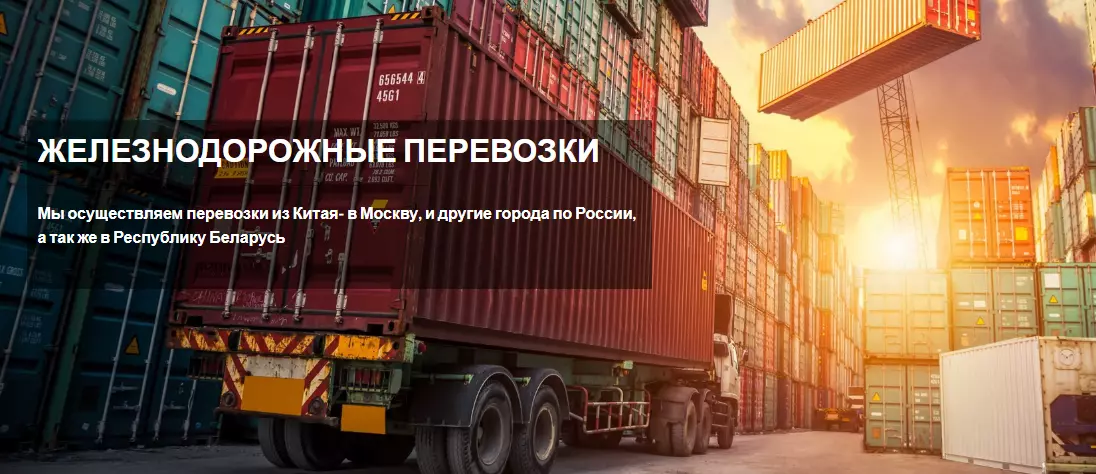
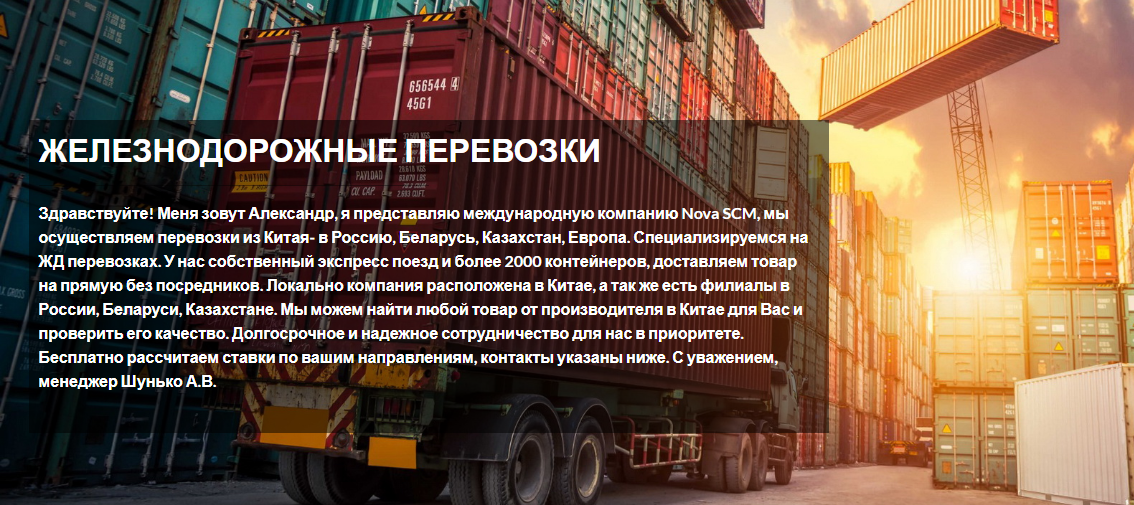
Add new text

diff --git a/beefree-wckbl14ncwp.html b/beefree-wckbl14ncwp.html
@@ -247,30 +247,7 @@ On click the images will be displayed at normal size to complete the effect
 </td>
 </tr>
 </table>
-<table border="0" cellpadding="0" cellspacing="0" class="heading_block block-3" role="presentation" style="mso-table-lspace: 0pt; mso-table-rspace: 0pt;" width="100%">
-<tr>
-<td class="pad" style="padding-bottom:10px;padding-left:30px;padding-right:30px;padding-top:30px;text-align:center;width:100%;">
-<h1 style="margin: 0; color: #ff6464; direction: ltr; font-family: 'Cabin', Arial, 'Helvetica Neue', Helvetica, sans-serif; font-size: 30px; font-weight: normal; letter-spacing: normal; line-height: 120%; text-align: center; margin-top: 0; margin-bottom: 0;">Расчитать ставку!</h1>
-</td>
-</tr>
-</table>
-<table border="0" cellpadding="0" cellspacing="0" class="heading_block block-4" role="presentation" style="mso-table-lspace: 0pt; mso-table-rspace: 0pt;" width="100%">
-<tr>
-<td class="pad" style="padding-bottom:20px;padding-left:30px;padding-right:30px;padding-top:20px;text-align:center;width:100%;">
-<h2 style="margin: 0; color: #000000; direction: ltr; font-family: 'Cabin', Arial, 'Helvetica Neue', Helvetica, sans-serif; font-size: 24px; font-weight: normal; letter-spacing: normal; line-height: 150%; text-align: center; margin-top: 0; margin-bottom: 0;">ENJOY 20% OFF!</h2>
-</td>
-</tr>
-</table>
-<table border="0" cellpadding="0" cellspacing="0" class="button_block block-5" role="presentation" style="mso-table-lspace: 0pt; mso-table-rspace: 0pt;" width="100%">
-<tr>
-<td class="pad" style="padding-bottom:20px;padding-top:20px;text-align:center;">
-<div align="center" class="alignment">
-<!--[if mso]><v:roundrect xmlns:v="urn:schemas-microsoft-com:vml" xmlns:w="urn:schemas-microsoft-com:office:word" href="https://www.example.com" style="height:46px;width:216px;v-text-anchor:middle;" arcsize="0%" strokeweight="1.5pt" strokecolor="#FF6464" fill="false"><w:anchorlock/><v:textbox inset="0px,0px,0px,0px"><center style="color:#ff6464; font-family:Arial, sans-serif; font-size:16px"><![endif]--><a href="https://www.example.com" style="text-decoration:none;display:inline-block;color:#ff6464;background-color:transparent;border-radius:0px;width:auto;border-top:2px solid #FF6464;font-weight:undefined;border-right:2px solid #FF6464;border-bottom:2px solid #FF6464;border-left:2px solid #FF6464;padding-top:5px;padding-bottom:5px;font-family:Cabin, Arial, Helvetica Neue, Helvetica, sans-serif;font-size:16px;text-align:center;mso-border-alt:none;word-break:keep-all;" target="_blank"><span style="padding-left:60px;padding-right:60px;font-size:16px;display:inline-block;letter-spacing:normal;"><span style="word-break: break-word; line-height: 32px;">SHOP NOW</span></span></a>
-<!--[if mso]></center></v:textbox></v:roundrect><![endif]-->
-</div>
-</td>
-</tr>
-</table>
+
 </td>
 </tr>
 </tbody>
@@ -316,7 +293,8 @@ On click the images will be displayed at normal size to complete the effect
 <tr>
 <td class="pad" style="padding-bottom:20px;padding-top:20px;text-align:center;">
 <div align="center" class="alignment">
-<!--[if mso]><v:roundrect xmlns:v="urn:schemas-microsoft-com:vml" xmlns:w="urn:schemas-microsoft-com:office:word" href="https://www.example.com" style="height:62px;width:193px;v-text-anchor:middle;" arcsize="0%" strokeweight="0.75pt" strokecolor="transparent" fill="false"><w:anchorlock/><v:textbox inset="0px,0px,0px,0px"><center style="color:#ffffff; font-family:Arial, sans-serif; font-size:20px"><![endif]--><a href="https://www.example.com" style="text-decoration:none;display:inline-block;color:#ffffff;background-color:transparent;border-radius:0px;width:auto;border-top:1px solid transparent;font-weight:undefined;border-right:1px solid transparent;border-bottom:1px solid transparent;border-left:1px solid transparent;padding-top:10px;padding-bottom:10px;font-family:Cabin, Arial, Helvetica Neue, Helvetica, sans-serif;font-size:20px;text-align:center;mso-border-alt:none;word-break:keep-all;" target="_blank"><span style="padding-left:10px;padding-right:10px;font-size:20px;display:inline-block;letter-spacing:2px;"><span style="word-break: break-word;"><span data-mce-style="" style="line-height: 40px;">SHOP NOW  >></span></span></span></a>
+<!--[if mso]><v:roundrect xmlns:v="urn:schemas-microsoft-com:vml" xmlns:w="urn:schemas-microsoft-com:office:word" href="https://www.example.com" style="height:62px;width:193px;v-text-anchor:middle;" arcsize="0%" strokeweight="0.75pt" strokecolor="transparent" fill="false"><w:anchorlock/><v:textbox inset="0px,0px,0px,0px"><center style="color:#ffffff; font-family:Arial, sans-serif; font-size:20px"><![endif]--><a href="https://www.example.com" style="text-decoration:none;display:inline-block;color:#ffffff;background-color:transparent;border-radius:0px;width:auto;border-top:1px solid transparent;font-weight:undefined;border-right:1px solid transparent;border-bottom:1px solid transparent;border-left:1px solid transparent;padding-top:10px;padding-bottom:10px;font-family:Cabin, Arial, Helvetica Neue, Helvetica, sans-serif;font-size:20px;text-align:center;mso-border-alt:none;word-break:keep-all;" target="_blank"><span style="padding-left:10px;padding-right:10px;font-size:20px;display:inline-block;letter-spacing:2px;"><span style="word-break: break-word;"><span data-mce-style="" style="line-height: 40px;">Рассчитать ставку
+</span></span></span></a>
 <!--[if mso]></center></v:textbox></v:roundrect><![endif]-->
 </div>
 </td>
